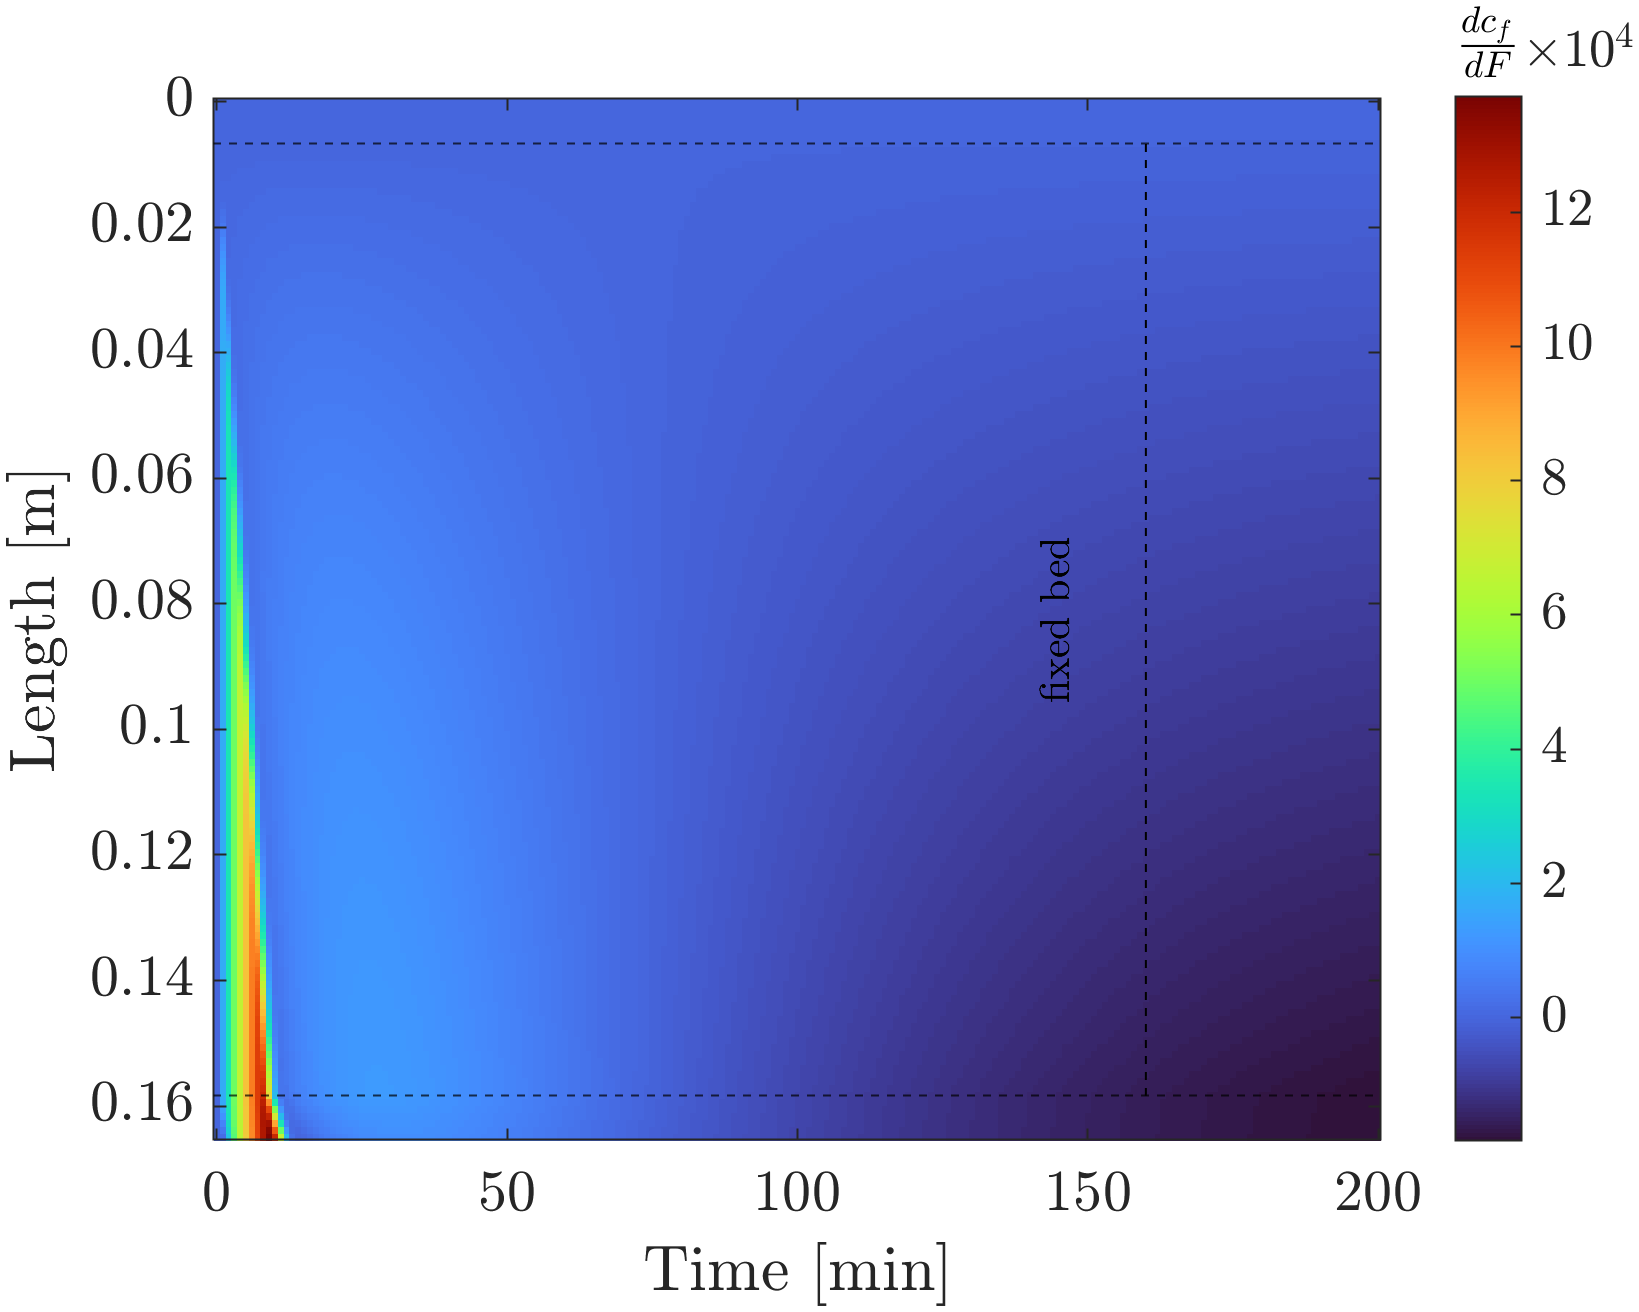
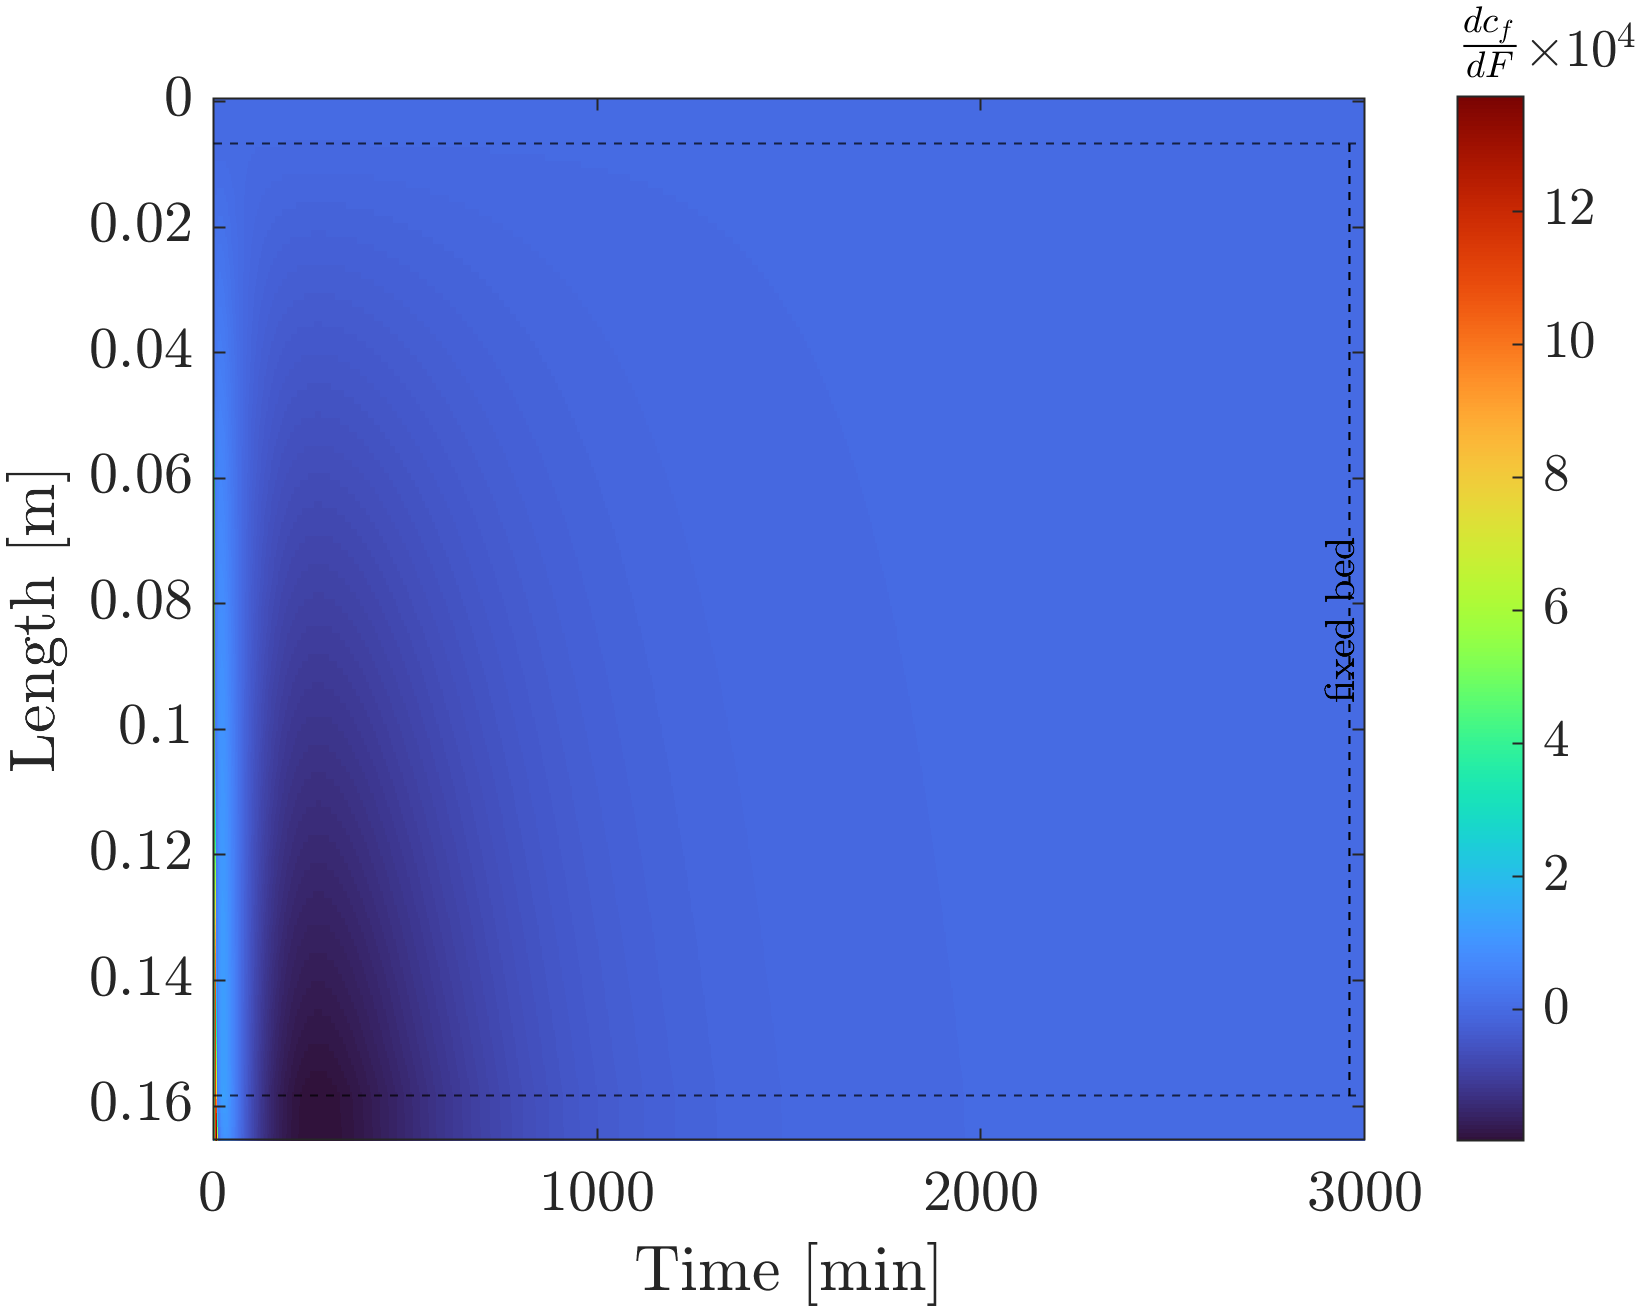
29.02

diff --git a/SFE_Sensitivity_Analysis_Chamomile/main_Sensitivity_Analysis_Chamomile.m b/SFE_Sensitivity_Analysis_Chamomile/main_Sensitivity_Analysis_Chamomile.m
@@ -24,8 +24,8 @@ bed                     = 0.92;                                              % P
 
 % Set time of the simulation
 PreparationTime         = 0;
-ExtractionTime          = 2000;
-timeStep                = 1;                                                % Minutes
+ExtractionTime          = 300;
+timeStep                = 0.1;                                                % Minutes
 
 simulationTime          = PreparationTime + ExtractionTime;
 
